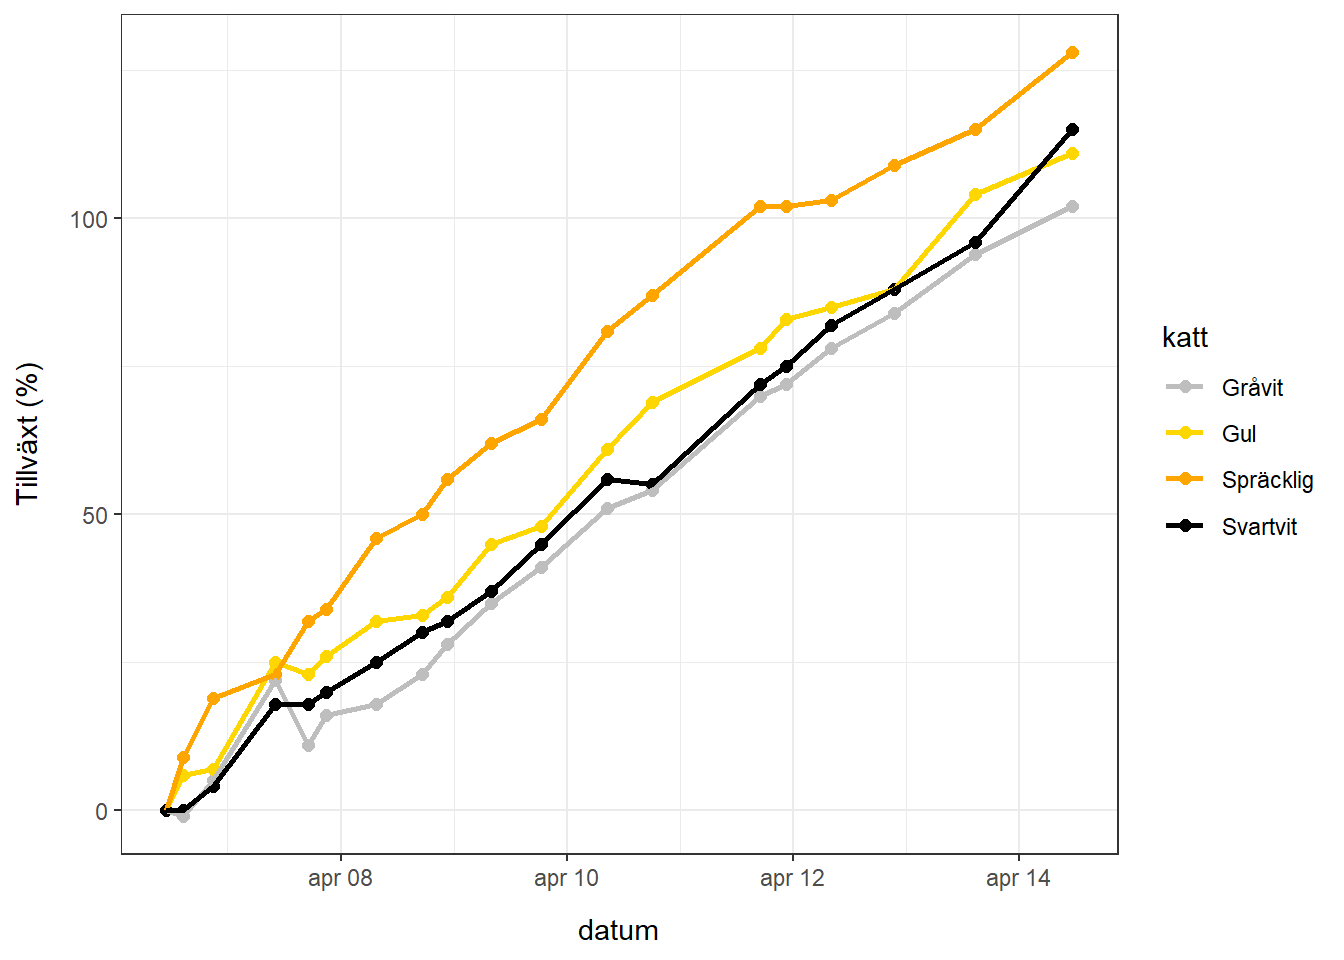
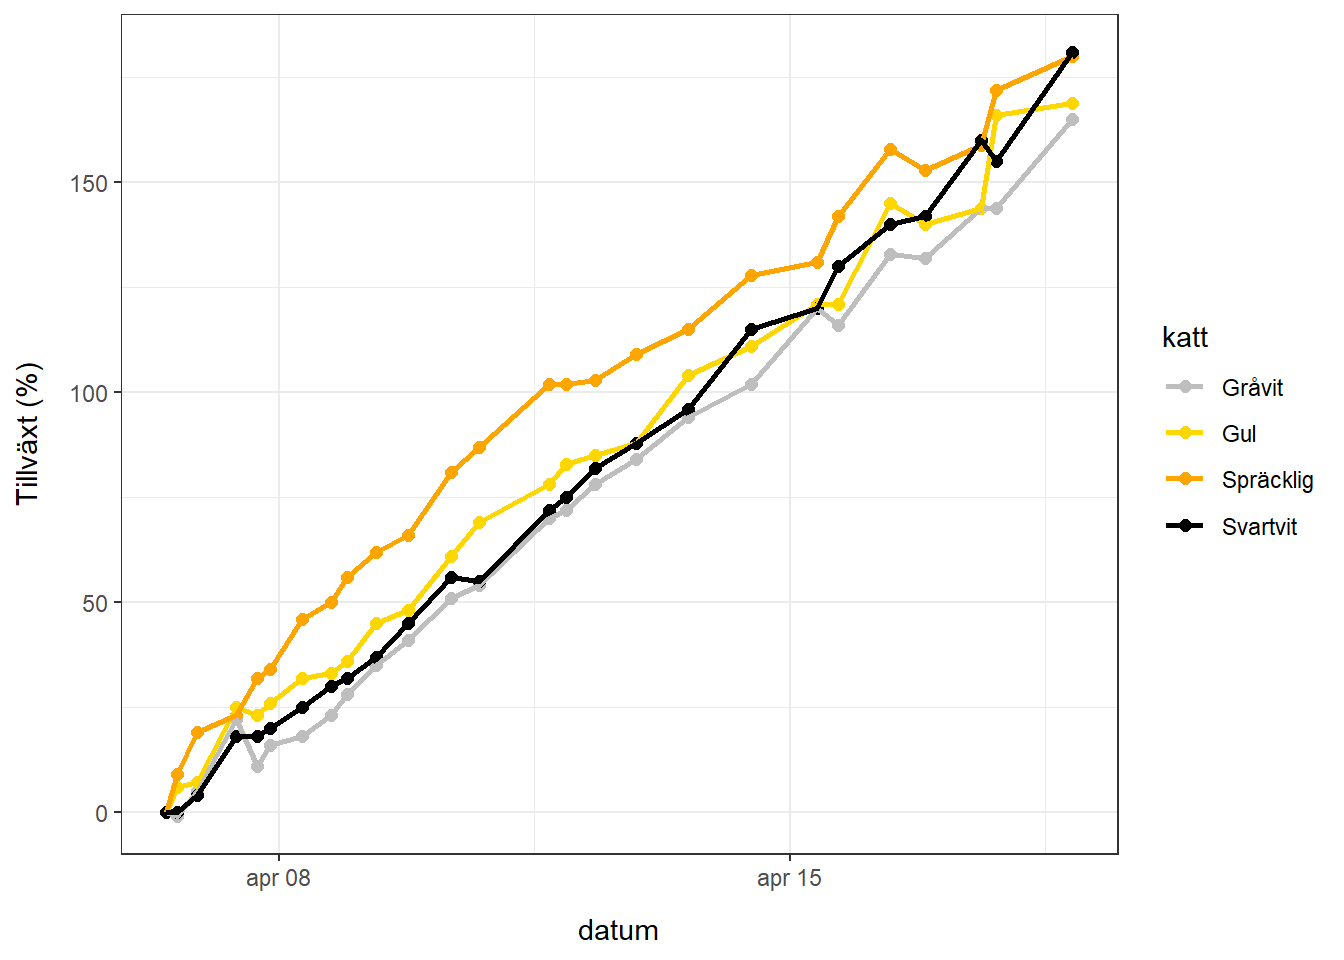
update weights

diff --git a/docs/kittens.html b/docs/kittens.html
@@ -7,7 +7,7 @@
 <meta name="viewport" content="width=device-width, initial-scale=1.0, user-scalable=yes">
 
 <meta name="author" content="Frej, Birk och Ingvild Gharbi Jeppsson">
-<meta name="dcterms.date" content="2024-04-14">
+<meta name="dcterms.date" content="2024-04-18">
 
 <title>Kattungar</title>
 <style>
@@ -89,7 +89,7 @@ ul.task-list li input[type="checkbox"] {
       <div>
       <div class="quarto-title-meta-heading">Published</div>
       <div class="quarto-title-meta-contents">
-        <p class="date">April 14, 2024</p>
+        <p class="date">April 18, 2024</p>
       </div>
     </div>
     
